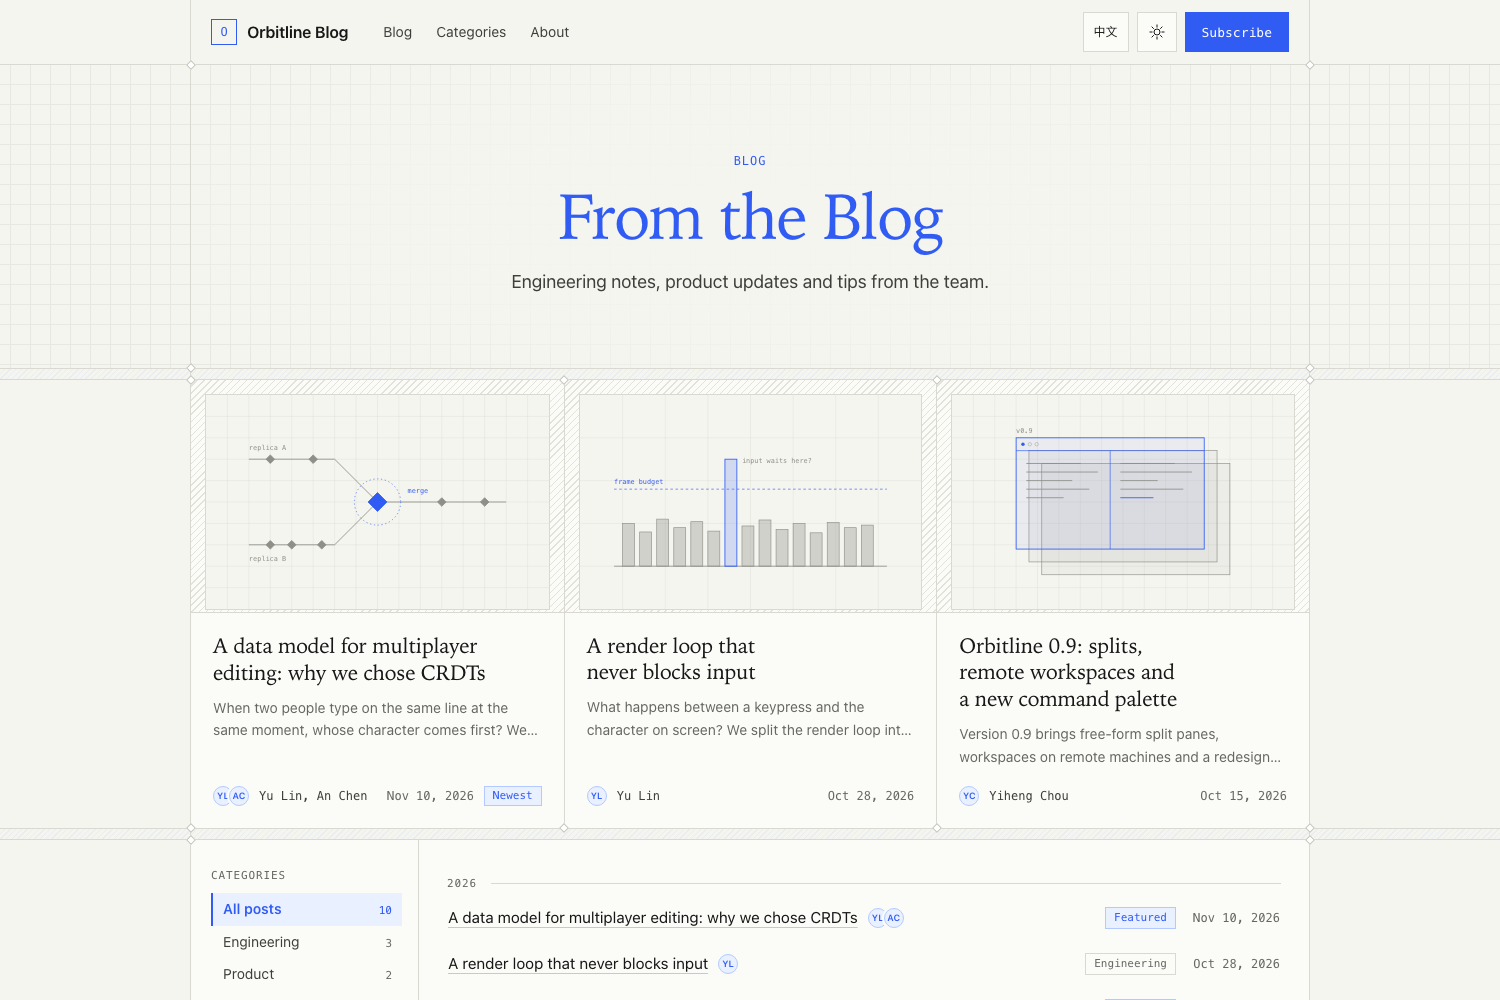
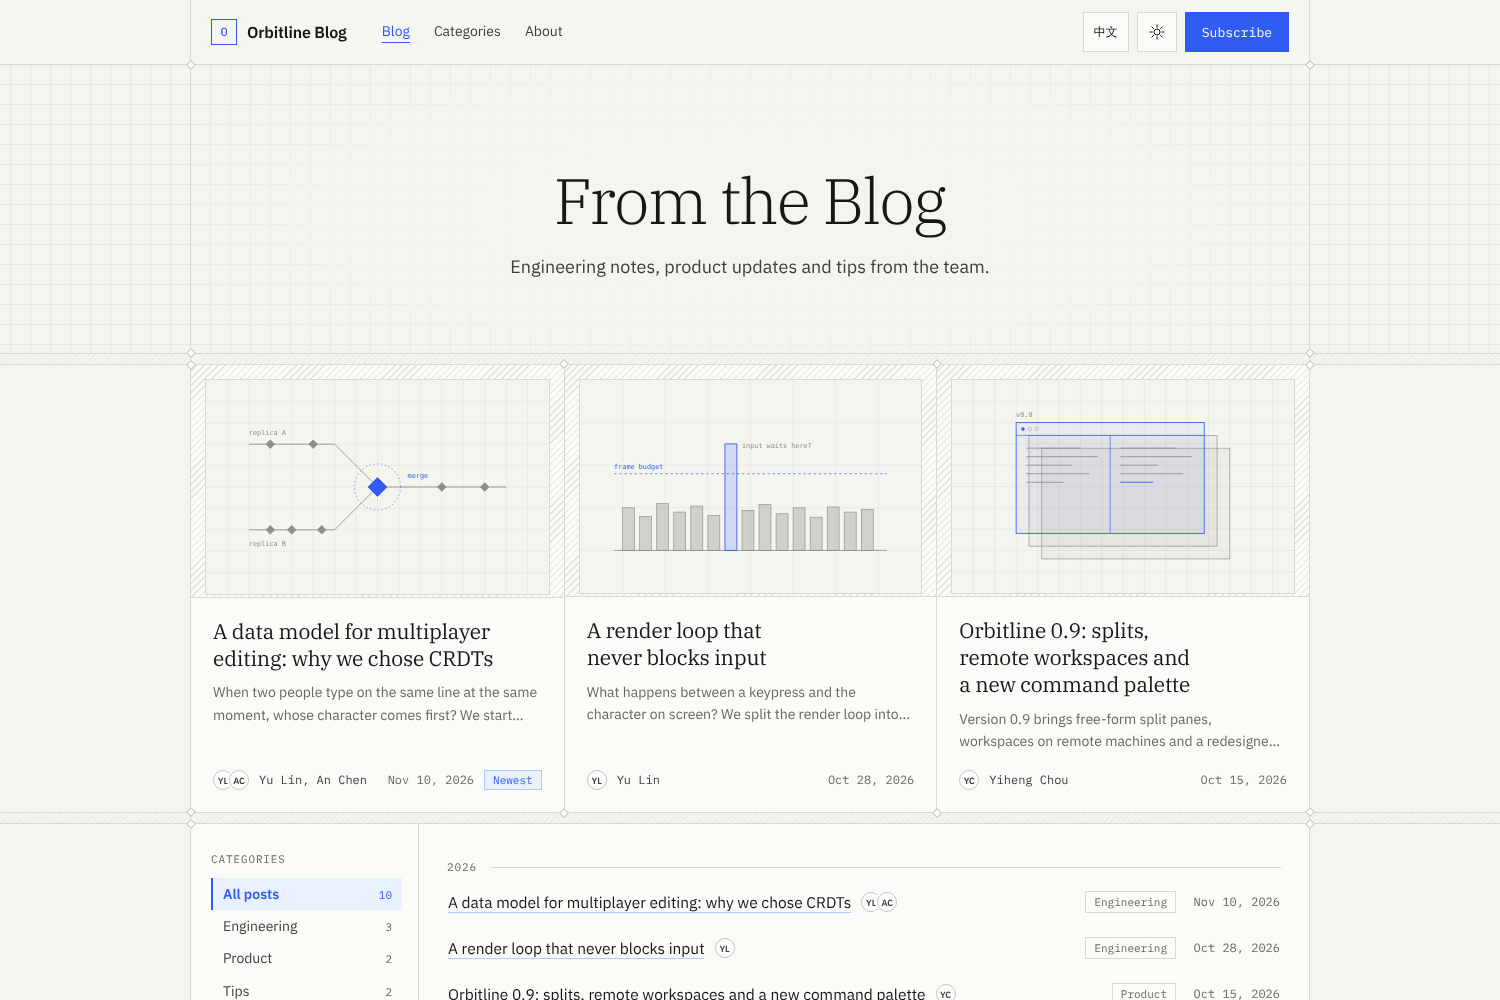
Sync brand assets, social cards and dates with gridline-style
- Ship the Gridline mark as favicon.svg / favicon.png / apple-touch-icon.png
  and the README lockups; the sync script now copies them from brand/.
- Replace Hugo's built-in Open Graph / Twitter templates with social.html:
  preview from front matter images, a raster cover or params.images,
  cropped to 1200x630, with locale, article times, section and tags.
- Example site: Orbitline social previews (en, zh-TW) in the brand's
  preview layout, with the site's monogram and a fictional-content note.
- Dates follow each language (Nov 10, 2026 / 2026年11月10日) through
  i18n date layouts, as BRAND.md asks; Hugo had no zh-Hant-TW locale data.
- CTA is labelled by its heading; secondary CTA and "Older" buttons
  carry the arrow span used across gridline-style.
- README: lockup, brand and icons section, sharing, refreshed screenshots
  in light and dark, English and Chinese.

Claude-Session: https://claude.ai/code/session_01TM9RvUgNHfd7AwBQ3vroLv

diff --git a/layouts/_partials/social.html b/layouts/_partials/social.html
@@ -1,0 +1,83 @@
+{{- /* Open Graph and Twitter / X card tags.
+  Preview image, first match wins:
+    1. front matter `images` (first entry)
+    2. a raster `cover` / `image` (SVG and GIF covers are skipped: social sites do not show them)
+    3. site `params.images` (first entry; set it per language for a translated preview)
+  Each entry may be a page-bundle file, a file in assets/, a file in static/ or a full URL.
+  Bundle and assets images are cropped to 1200 × 630.                                        */ -}}
+{{- $p := . }}
+{{- $img := dict }}
+{{- $candidates := slice }}
+{{- with $p.Params.images }}{{ $candidates = $candidates | append (index . 0) }}{{ end }}
+{{- with $p.Params.cover | default $p.Params.image }}{{ $candidates = $candidates | append . }}{{ end }}
+{{- with site.Params.images }}{{ $candidates = $candidates | append (index . 0) }}{{ end }}
+{{- range $candidates }}
+  {{- if not $img }}
+    {{- $src := . }}
+    {{- if or (strings.HasPrefix $src "http://") (strings.HasPrefix $src "https://") }}
+      {{- $img = dict "url" $src }}
+    {{- else }}
+      {{- $r := or ($p.Resources.Get $src) (resources.Get $src) }}
+      {{- if $r }}
+        {{- if and (eq $r.ResourceType "image") (not (in (slice "svg" "svg+xml" "gif") $r.MediaType.SubType)) }}
+          {{- $f := $r.Fill "1200x630 Center jpg q85" }}
+          {{- $img = dict "url" $f.Permalink "width" $f.Width "height" $f.Height }}
+        {{- end }}
+      {{- else if not (strings.HasSuffix (lower $src) ".svg") }}
+        {{- $img = dict "url" ($src | absURL) }}
+      {{- end }}
+    {{- end }}
+  {{- end }}
+{{- end }}
+
+{{- $title := cond $p.IsHome site.Title $p.Title }}
+{{- $desc := "" }}
+{{- with $p.Description }}{{ $desc = . }}{{ else }}{{ if $p.IsPage }}{{ $desc = $p.Summary | plainify | truncate 160 }}{{ else }}{{ $desc = site.Params.description }}{{ end }}{{ end }}
+{{- $locale := replace (site.Language.Locale | default site.Language.Lang) "-" "_" }}
+{{- /* Open Graph wants language_TERRITORY: zh-Hant-TW becomes zh_TW. */}}
+{{- $locale = replaceRE `^([a-z]{2,3})_[A-Z][a-z]{3}_` "${1}_" $locale }}
+
+<meta property="og:type" content="{{ if $p.IsPage }}article{{ else }}website{{ end }}">
+<meta property="og:site_name" content="{{ site.Title }}">
+<meta property="og:title" content="{{ $title }}">
+{{- with $desc }}
+<meta property="og:description" content="{{ . }}">
+{{- end }}
+<meta property="og:url" content="{{ $p.Permalink }}">
+<meta property="og:locale" content="{{ $locale }}">
+{{- range $p.Translations }}
+<meta property="og:locale:alternate" content="{{ replaceRE `^([a-z]{2,3})_[A-Z][a-z]{3}_` "${1}_" (replace (.Language.Locale | default .Language.Lang) "-" "_") }}">
+{{- end }}
+{{- with $img }}
+<meta property="og:image" content="{{ .url }}">
+{{- with .width }}<meta property="og:image:width" content="{{ . }}">{{ end }}
+{{- with .height }}<meta property="og:image:height" content="{{ . }}">{{ end }}
+<meta property="og:image:alt" content="{{ $title }}">
+{{- end }}
+{{- if $p.IsPage }}
+{{- if not $p.Date.IsZero }}
+<meta property="article:published_time" content="{{ $p.Date.Format "2006-01-02T15:04:05Z07:00" }}">
+{{- end }}
+{{- if and (not $p.Lastmod.IsZero) (ne $p.Lastmod $p.Date) }}
+<meta property="article:modified_time" content="{{ $p.Lastmod.Format "2006-01-02T15:04:05Z07:00" }}">
+{{- end }}
+{{- range first 1 ($p.GetTerms "categories") }}
+<meta property="article:section" content="{{ .LinkTitle }}">
+{{- end }}
+{{- range $p.Params.tags }}
+<meta property="article:tag" content="{{ . }}">
+{{- end }}
+{{- end }}
+
+<meta name="twitter:card" content="{{ if $img }}summary_large_image{{ else }}summary{{ end }}">
+<meta name="twitter:title" content="{{ $title }}">
+{{- with $desc }}
+<meta name="twitter:description" content="{{ . }}">
+{{- end }}
+{{- with $img }}
+<meta name="twitter:image" content="{{ .url }}">
+<meta name="twitter:image:alt" content="{{ $title }}">
+{{- end }}
+{{- with site.Params.social.twitter | default site.Params.twitter }}
+<meta name="twitter:site" content="@{{ strings.TrimPrefix "@" . }}">
+{{- end }}

diff --git a/layouts/_partials/head.html b/layouts/_partials/head.html
@@ -19,7 +19,12 @@
 <meta name="color-scheme" content="{{ if eq $scheme "auto" }}light dark{{ else }}{{ $scheme }}{{ end }}">
 <meta name="theme-color" content="#f5f5f0" media="(prefers-color-scheme: light)">
 <meta name="theme-color" content="#111216" media="(prefers-color-scheme: dark)">
+{{- /* The Gridline mark (synced from gridline-style brand/). A site replaces it by putting
+  its own favicon.svg, favicon.png and apple-touch-icon.png in static/. */}}
+<link rel="icon" href="{{ "favicon.png" | relURL }}" sizes="32x32" type="image/png">
 <link rel="icon" href="{{ "favicon.svg" | relURL }}" type="image/svg+xml">
+<link rel="apple-touch-icon" href="{{ "apple-touch-icon.png" | relURL }}">
+{{ hugo.Generator }}
 
 {{- /* Before paint: swap no-js for js and, with the toggle on, restore the stored theme. */ -}}
 {{- if eq $scheme "auto" }}
@@ -55,6 +60,5 @@
 <style>:root[data-theme="dark"]{--accent:{{ . | safeCSS }}}@media (prefers-color-scheme:dark){:root:not([data-theme="light"]){--accent:{{ . | safeCSS }}}}</style>
 {{- end }}
 
-{{- partial "opengraph.html" . }}
-{{- partial "twitter_cards.html" . }}
+{{- partial "social.html" . }}
 {{- partial "extend-head.html" . }}

diff --git a/layouts/_partials/cta.html b/layouts/_partials/cta.html
@@ -2,14 +2,15 @@
 {{- if ne .Params.cta false }}
   {{- with site.Params.cta }}
 {{- partial "divider.html" }}
-<section class="cta grid-bg">
+<section class="cta grid-bg" aria-labelledby="cta-title">
   <div class="frame cta-inner">
     {{- with .eyebrow }}<p class="eyebrow">{{ . }}</p>{{ end }}
-    <h2>{{ .title }}</h2>
+    <h2 id="cta-title">{{ .title }}</h2>
     {{- with .text }}<p>{{ . }}</p>{{ end }}
     {{- with .buttons }}
     <div class="actions">
-      {{- range . }}<a class="button{{ if .primary }} primary{{ end }}" href="{{ .url | relLangURL }}">{{ .label }}</a>{{ end }}
+      {{- /* Secondary buttons lead somewhere else on the site: an arrow marks navigation. */}}
+      {{- range . }}<a class="button{{ if .primary }} primary{{ end }}" href="{{ .url | relLangURL }}">{{ .label }}{{ if not .primary }} <span class="arrow" aria-hidden="true">→</span>{{ end }}</a>{{ end }}
     </div>
     {{- end }}
   </div>

diff --git a/layouts/_partials/post.html b/layouts/_partials/post.html
@@ -28,9 +28,9 @@
       </ul>
       {{- end }}
       <p class="post-meta">
-        <time datetime="{{ .Date.Format "2006-01-02" }}">{{ .Date | time.Format ":date_long" }}</time>
+        <time datetime="{{ .Date.Format "2006-01-02" }}">{{ partial "date.html" (dict "date" .Date "style" "long") }}</time>
         {{- if site.Params.showReadingTime }}<span>{{ T "reading_time" .ReadingTime }}</span>{{ end }}
-        {{- if gt (.Lastmod.Sub .Date).Hours 24 }}<span>{{ T "updated" }} <time datetime="{{ .Lastmod.Format "2006-01-02" }}">{{ .Lastmod | time.Format ":date_medium" }}</time></span>{{ end }}
+        {{- if gt (.Lastmod.Sub .Date).Hours 24 }}<span>{{ T "updated" }} <time datetime="{{ .Lastmod.Format "2006-01-02" }}">{{ partial "date.html" (dict "date" .Lastmod) }}</time></span>{{ end }}
       </p>
     </div>
   </header>

diff --git a/layouts/_partials/pagination.html b/layouts/_partials/pagination.html
@@ -2,6 +2,6 @@
 <nav class="pagination" aria-label="{{ T "nav_pagination" }}">
   {{- with .Prev }}<a class="button" href="{{ .URL }}" rel="prev">← {{ T "newer_posts" }}</a>{{ else }}<span></span>{{ end }}
   <span class="page-of">{{ T "page_of" (dict "Current" .PageNumber "Total" .TotalPages) }}</span>
-  {{- with .Next }}<a class="button" href="{{ .URL }}" rel="next">{{ T "older_posts" }} →</a>{{ else }}<span></span>{{ end }}
+  {{- with .Next }}<a class="button" href="{{ .URL }}" rel="next">{{ T "older_posts" }} <span class="arrow" aria-hidden="true">→</span></a>{{ else }}<span></span>{{ end }}
 </nav>
 {{- end }}

diff --git a/assets/css/gridline/tokens.css b/assets/css/gridline/tokens.css
@@ -1,4 +1,4 @@
-/* Synced from gridline-style 0.1.0 (9764f86) src/css/tokens.css by scripts/sync-gridline-style.py. Edit it there. */
+/* Synced from gridline-style 0.1.0 (0cf3bc3) src/css/tokens.css by scripts/sync-gridline-style.py. Edit it there. */
 /* ── Tokens ─────────────────────────────────────────────────────────────
    Gridline: gray-white canvas, hairline construction lines, one electric-blue
    accent, serif display type, mono metadata. Square corners everywhere except

diff --git a/assets/css/gridline/construction.css b/assets/css/gridline/construction.css
@@ -1,4 +1,4 @@
-/* Synced from gridline-style 0.1.0 (9764f86) src/css/construction.css by scripts/sync-gridline-style.py. Edit it there. */
+/* Synced from gridline-style 0.1.0 (0cf3bc3) src/css/construction.css by scripts/sync-gridline-style.py. Edit it there. */
 /* ── Construction ──────────────────────────────────────────────────────
    Rails, grids, bands and diamond nodes. Rules that keep it honest:
    · a grid line never runs a pixel or two beside a rail (grids anchor to rails);

diff --git a/layouts/_partials/date.html b/layouts/_partials/date.html
@@ -1,0 +1,8 @@
+{{- /* A date for display. Context: dict "date" (time.Time) "style" ("medium" | "long").
+  The layout comes from the i18n keys date_medium / date_long (Go layouts, e.g. "Jan 2, 2006"
+  or "2006年1月2日"), so each language writes dates its own way even where Hugo has no
+  locale data for it. Without those keys, Hugo's :date_medium / :date_long are used. */ -}}
+{{- $style := .style | default "medium" }}
+{{- $layout := T (printf "date_%s" $style) }}
+{{- if $layout }}{{ .date.Format $layout }}{{ else }}{{ .date | time.Format (printf ":date_%s" $style) }}{{ end }}
+{{- /**/ -}}

diff --git a/assets/css/gridline/components.css b/assets/css/gridline/components.css
@@ -1,4 +1,4 @@
-/* Synced from gridline-style 0.1.0 (9764f86) src/css/components.css by scripts/sync-gridline-style.py. Edit it there. */
+/* Synced from gridline-style 0.1.0 (0cf3bc3) src/css/components.css by scripts/sync-gridline-style.py. Edit it there. */
 /* ── Components ─────────────────────────────────────────────────────── */
 
 /* Buttons. Mono labels, square corners, 40px minimum height. One primary

diff --git a/assets/css/gridline/syntax.css b/assets/css/gridline/syntax.css
@@ -1,4 +1,4 @@
-/* Synced from gridline-style 0.1.0 (9764f86) src/css/syntax.css by scripts/sync-gridline-style.py. Edit it there. */
+/* Synced from gridline-style 0.1.0 (0cf3bc3) src/css/syntax.css by scripts/sync-gridline-style.py. Edit it there. */
 /* ── Syntax colours for the dark code surface (both themes) ──────────────
    Chroma class names (Hugo's highlighter), so Hugo output and hand-marked
    template code share one palette. Restrained: blue keywords, green strings,

diff --git a/layouts/_partials/card.html b/layouts/_partials/card.html
@@ -22,7 +22,7 @@
         {{- with $authors }}
         <span class="card-authors">{{ range $i, $a := . }}{{ if $i }}, {{ end }}{{ $a.name }}{{ end }}</span>
         {{- end }}
-        <time datetime="{{ $p.Date.Format "2006-01-02" }}">{{ $p.Date | time.Format ":date_medium" }}</time>
+        <time datetime="{{ $p.Date.Format "2006-01-02" }}">{{ partial "date.html" (dict "date" $p.Date) }}</time>
         {{- if .newest }}<span class="badge accent">{{ T "newest" }}</span>{{ end }}
       </div>
     </div>

diff --git a/assets/css/gridline/base.css b/assets/css/gridline/base.css
@@ -1,4 +1,4 @@
-/* Synced from gridline-style 0.1.0 (9764f86) src/css/base.css by scripts/sync-gridline-style.py. Edit it there. */
+/* Synced from gridline-style 0.1.0 (0cf3bc3) src/css/base.css by scripts/sync-gridline-style.py. Edit it there. */
 /* ── Base ─────────────────────────────────────────────────────────────── */
 
 *, *::before, *::after { box-sizing: border-box; }
